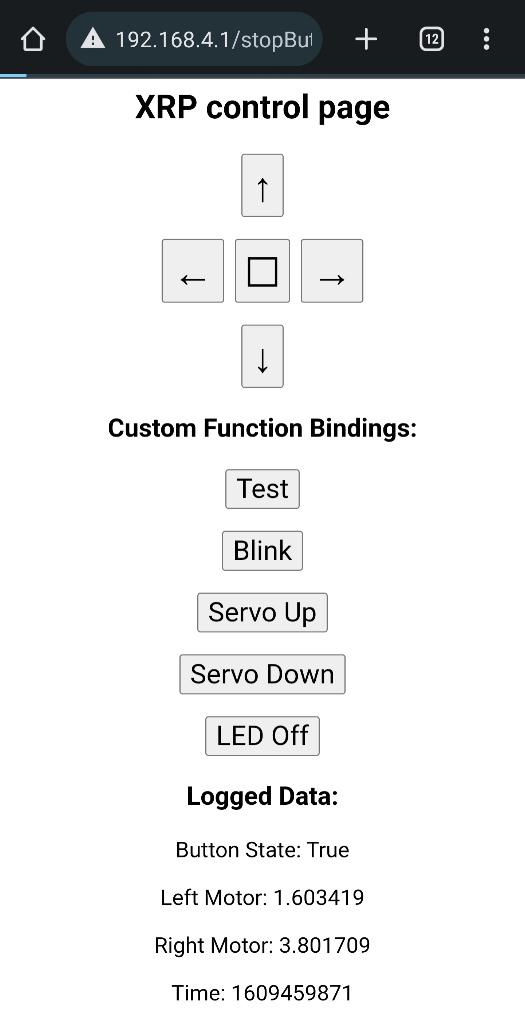
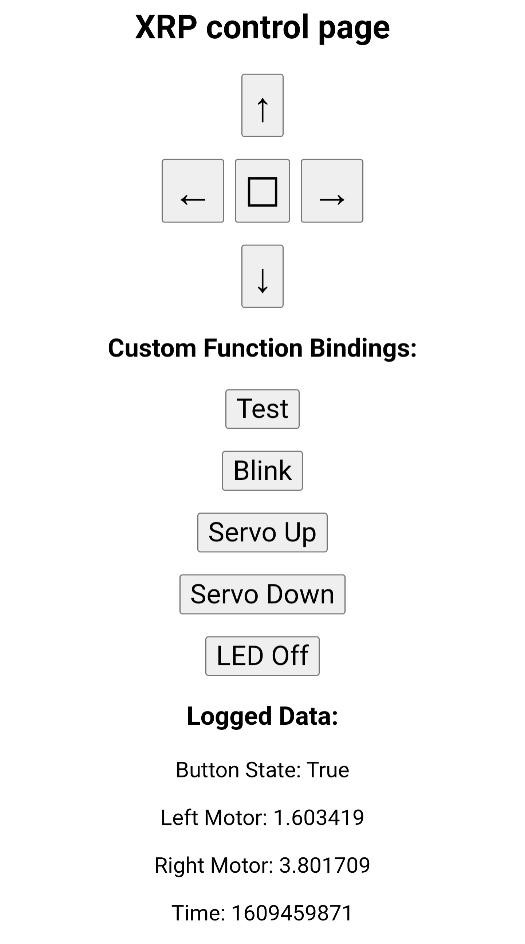
added blockly examples to dashboard section

diff --git a/course/dashboard.rst b/course/dashboard.rst
@@ -25,6 +25,7 @@ to initialize the network:
 .. code-block:: python
 
    start_network(robot_id: int)
+
 This opens an access point from the XRP board to be used as a captive host.
 The network password is “remote.xrp”
 
@@ -42,6 +43,9 @@ WiFi connectivity when the Webserver class method is called:
 .. code-block:: python
    
    webserver.start_server(id)
+
+.. image:: images/StartServer.png
+   :width: 200
 
 Note that this will fail if not exactly one of the above two methods was called first.
 This function call will:
@@ -89,6 +93,9 @@ Some examples are:
    webserver.log_data("Dict", {"a":1,"b":2,"c":3})
    webserver.log_data("Tuple", (1,2,3))
 
+.. image:: images/ServerExample1.png
+   :width: 300
+
 Teleop driving from the dashboard
 ---------------------------------
 To drive the robot, a program can create a driving interface by
@@ -107,6 +114,9 @@ Here is an example of how to do set up those bindings using lambdas
    webserver.registerBackwardButton(lambda: drivetrain.set_effort(-0.5, -0.5))
    webserver.registerStopButton(lambda: drivetrain.set_effort(0, 0))
 
+.. image:: images/ServerExample2.png
+   :width: 300
+
 By using the set_effort function, the robot will continue to drive 
 after a single button press until told to do something else.
 
@@ -120,6 +130,9 @@ function to do any operation that is required.
    webserver.add_button("test", lambda: print("test"))
    webserver.add_button("blink", lambda: print(led.blink(2)))
    webserver.add_button("LED_Off", lambda: led.off())
+
+.. image:: images/ServerExample3.png
+   :width: 300
 
 Sample dashboard output
 -----------------------
